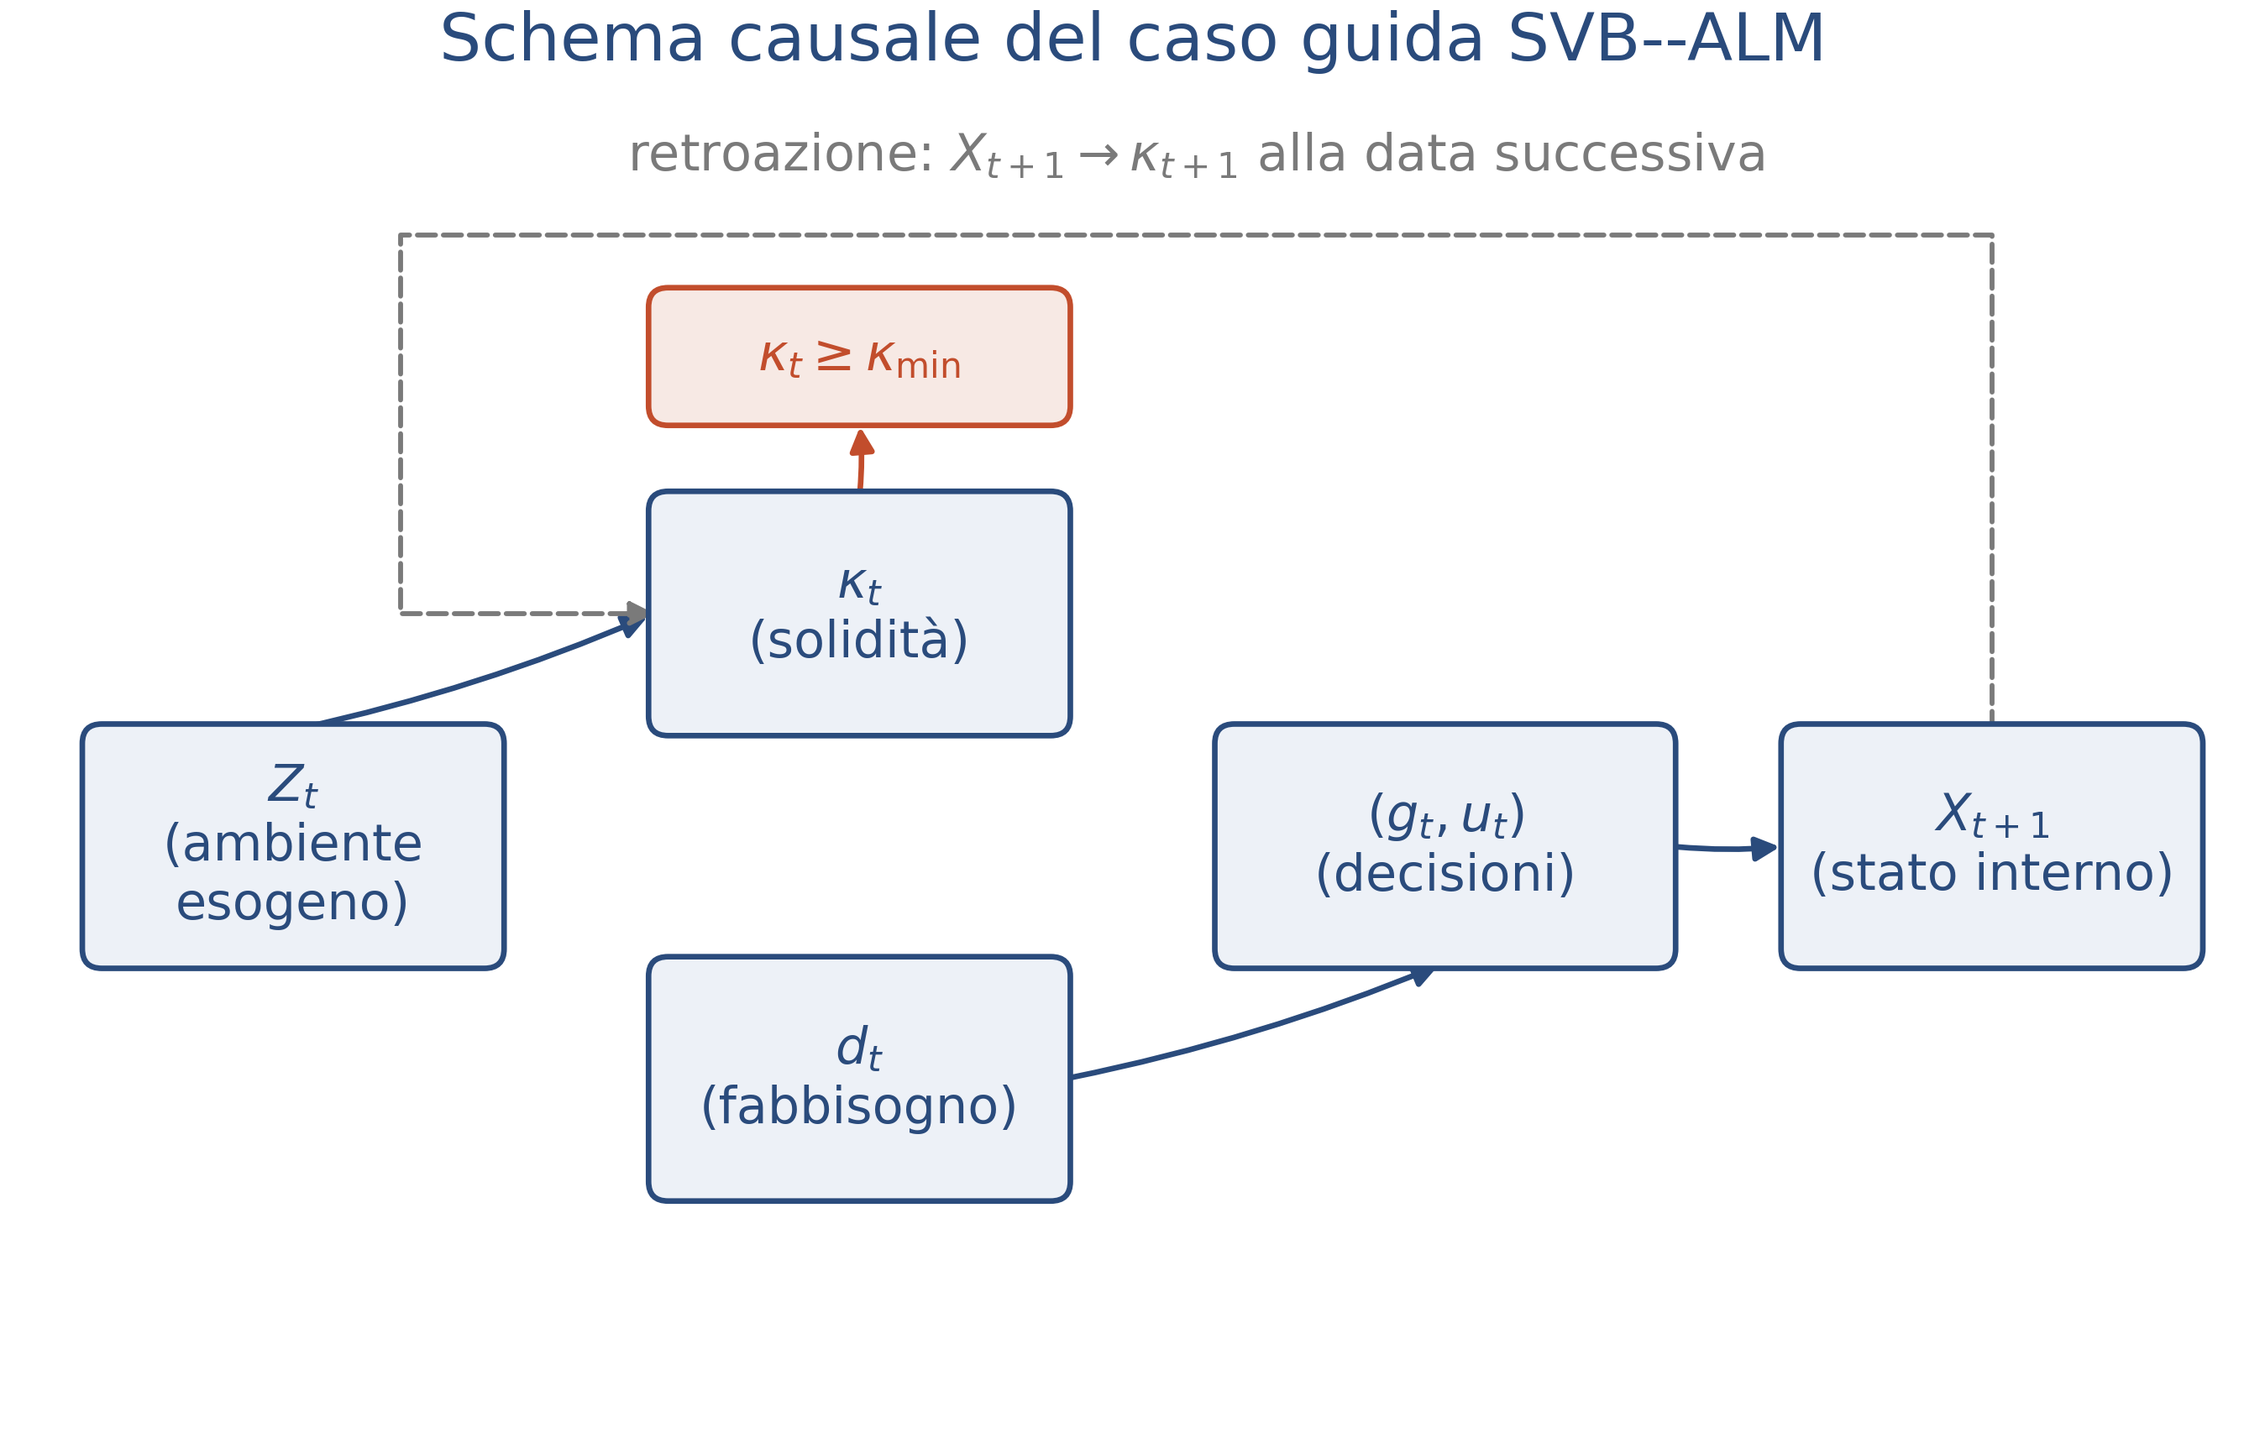
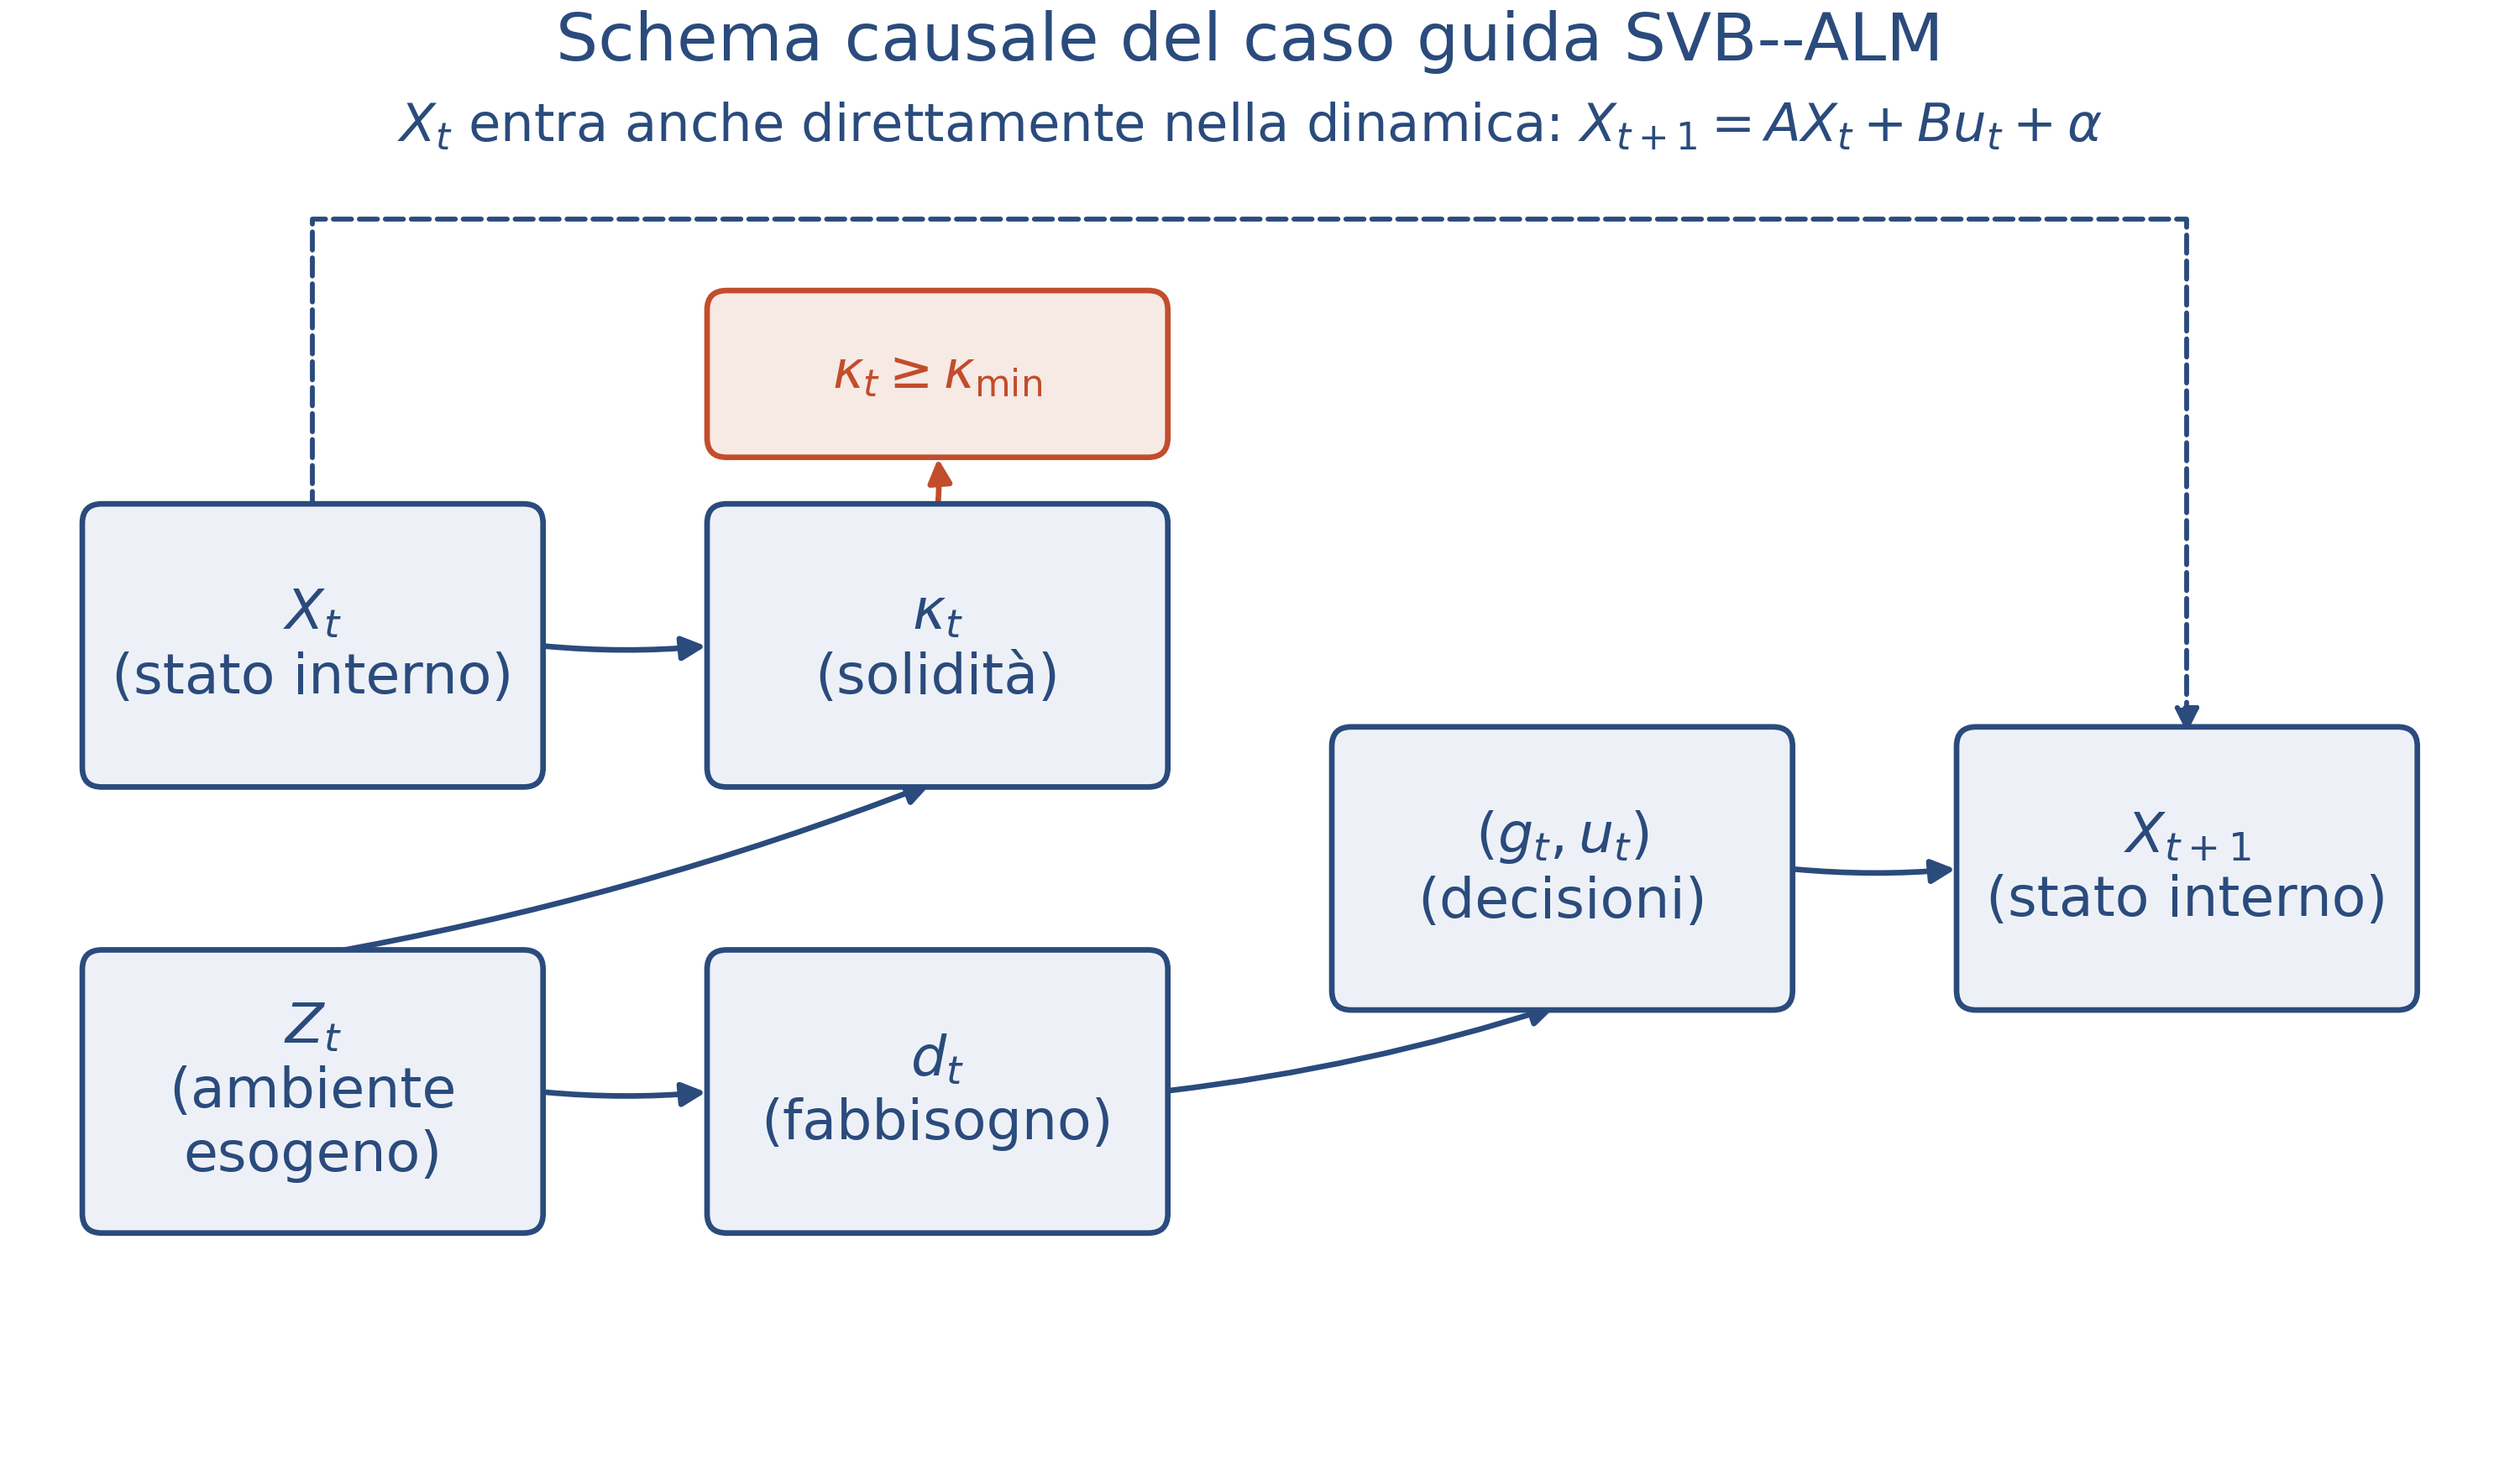
Nuova figura Cap15 Schema causale

diff --git a/04_Codice/Lez15/Cap15_schema_causale_svb_alm.py b/04_Codice/Lez15/Cap15_schema_causale_svb_alm.py
@@ -1,5 +1,4 @@
 from pathlib import Path
-from typing import Literal, TypedDict
 
 import matplotlib.pyplot as plt
 from matplotlib.patches import FancyBboxPatch, FancyArrowPatch
@@ -21,51 +20,32 @@ SAVE_PAD_INCHES = 0.04
 # ============================================================
 
 FONT_FAMILY = "DejaVu Sans"
-FONT_SCALE = 1.00  # Scala globale: 1.10 aumenta tutti i testi del 10%.
-LINE_SPACING_SCALE = 1.00  # Scala globale delle interlinee.
-
 plt.rcParams["font.family"] = FONT_FAMILY
-# Mantiene in SVG lo stesso aspetto tipografico anche su altri computer.
-plt.rcParams["svg.fonttype"] = "path"
 
-TextCategory = Literal["title", "node", "constraint", "annotation"]
-
-
-class TextStyle(TypedDict):
-    """Proprietà tipografiche riconosciute da Matplotlib e Pylance."""
-
-    fontsize: float
-    linespacing: float
-
-
-FONT_SIZES: dict[TextCategory, float] = {
-    "title": 19.0,
-    "node": 14.5,
-    "constraint": 14.5,  # Testo nel riquadro rosso del vincolo.
-    "annotation": 14.5,
+FONT_SIZES = {
+    "title": 19,
+    "node": 16.0,
+    "annotation": 15.0,
 }
-
-LINE_SPACINGS: dict[TextCategory, float] = {
-    "title": 1.15,
-    "node": 1.25,
-    "constraint": 1.20,
-    "annotation": 1.20,
-}
-
-
-def text_style(category: TextCategory) -> TextStyle:
-    """Restituisce dimensione e interlinea della categoria richiesta."""
-    return {
-        "fontsize": FONT_SIZES[category] * FONT_SCALE,
-        "linespacing": LINE_SPACINGS[category] * LINE_SPACING_SCALE,
-    }
-
 
 COL_STRUCT = "#2A4B7C"
 COL_ACCENT = "#C24D2C"
 COL_MUTED = "#7A7A7A"
 COL_BG_BOX = "#EDF1F7"
 COL_BG_ACCENT = "#F7E9E4"
+
+# ============================================================
+# CONTROLLI DI LAYOUT (regolabili a mano, in ordine dal basso verso l'alto)
+# ============================================================
+
+APEX_GAP = 0.40            # spazio fra la cima del box del vincolo e la
+                            # "canalina" tratteggiata orizzontale
+ANNOTATION_GAP = 0.40      # spazio fra la canalina e il sottotitolo
+TITLE_GAP = 0.35           # spazio fra il sottotitolo e il titolo
+TOP_MARGIN = 0.25          # spazio fra il titolo e il bordo superiore del
+                            # canvas
+# tutti e quattro nella stessa unita' (quella del disegno, non punti):
+# si possono confrontare e sommare direttamente fra loro.
 
 
 def save_figure(fig, stem):
@@ -74,23 +54,20 @@ def save_figure(fig, stem):
     png_path = OUTPUT_DIR / f"{stem}.png"
     svg_path = OUTPUT_DIR / f"{stem}.svg"
     fig.savefig(png_path, dpi=PNG_DPI, bbox_inches=SAVE_BBOX, pad_inches=SAVE_PAD_INCHES)
-    fig.savefig(svg_path, format="svg", bbox_inches=SAVE_BBOX, pad_inches=SAVE_PAD_INCHES)
+    fig.savefig(svg_path, bbox_inches=SAVE_BBOX, pad_inches=SAVE_PAD_INCHES)
     plt.close(fig)
     print(f"Figura PNG salvata in: {png_path.resolve()}")
     print(f"Figura SVG salvata in: {svg_path.resolve()}")
-    print(f"Salvataggio completato (PNG + SVG). Destinazione: {OUTPUT_DIR.resolve()}")
     return png_path, svg_path
 
 
-def add_box(ax, x, y, w, h, text, face, edge,
-            text_category: TextCategory = "node"):
-    """Disegna un box usando la categoria tipografica indicata."""
+def add_box(ax, x, y, w, h, text, face, edge, fontsize):
     patch = FancyBboxPatch((x, y), w, h,
                             boxstyle="round,pad=0.03,rounding_size=0.10",
                             linewidth=1.6, edgecolor=edge, facecolor=face, zorder=2)
     ax.add_patch(patch)
     ax.text(x + w / 2, y + h / 2, text, ha="center", va="center",
-            color=edge, zorder=3, **text_style(text_category))
+            fontsize=fontsize, color=edge, zorder=3, linespacing=1.25)
     return (x, y, w, h)
 
 
@@ -108,51 +85,94 @@ def add_arrow(ax, b1, b2, side1="right", side2="left", color=COL_STRUCT, style="
 # FIGURA
 # ============================================================
 
-fig, ax = plt.subplots(figsize=(11.5, 6.8))
-ax.set_xlim(0, 11.5)
-ax.set_ylim(0, 6.8)
+# Griglia dei box: dimensioni uniformi, ricalcolate per il font piu' grande
+# (il testo piu' lungo, "ambiente esogeno", va esplicitamente su due righe
+# cosi' la larghezza del box non dipende dal punto esatto a cui e' tarato
+# il font).
+BOX_W, BOX_H = 2.3, 1.4
+GAP_X, GAP_Y = 0.9, 0.9
+
+col_x0 = 0.4                          # X_t, Z_t
+col_x1 = col_x0 + BOX_W + GAP_X       # kappa_t, d_t
+col_x2 = col_x1 + BOX_W + GAP_X       # (g_t,u_t)
+col_x3 = col_x2 + BOX_W + GAP_X       # X_{t+1}
+
+row_y_bottom = 1.2                    # Z_t, d_t
+row_y_top = row_y_bottom + BOX_H + GAP_Y     # X_t, kappa_t
+row_y_mid = (row_y_bottom + row_y_top) / 2   # (g_t,u_t), X_{t+1}, centrata
+
+# altezza del canvas ricavata dai controlli di layout sopra, cosi' i box
+# restano della stessa dimensione qualunque valore diano a APEX_GAP,
+# ANNOTATION_GAP, TOP_MARGIN: cambia solo lo spazio bianco in alto.
+BOX_C_H = 0.8
+box_c_bottom = row_y_top + BOX_H + 0.3   # gap fra kappa_t e il box del vincolo
+box_c_top = box_c_bottom + BOX_C_H       # cima del box del vincolo
+y_apex = box_c_top + APEX_GAP
+y_annotation = y_apex + ANNOTATION_GAP
+y_title = y_annotation + TITLE_GAP
+ylim_top = y_title + TOP_MARGIN
+
+fig, ax = plt.subplots(figsize=(12.7, ylim_top))
+ax.set_xlim(0, col_x3 + BOX_W + 0.4)
+ax.set_ylim(0, ylim_top)
 ax.axis("off")
 
-b_z = add_box(ax, 0.4, 2.4, 2.1, 1.2, r"$Z_t$" + "\n(ambiente\nesogeno)",
-              COL_BG_BOX, COL_STRUCT)
-b_k = add_box(ax, 3.3, 3.6, 2.1, 1.2, r"$\kappa_t$" + "\n(solidità)",
-              COL_BG_BOX, COL_STRUCT)
-b_d = add_box(ax, 3.3, 1.2, 2.1, 1.2, r"$d_t$" + "\n(fabbisogno)",
-              COL_BG_BOX, COL_STRUCT)
-b_u = add_box(ax, 6.2, 2.4, 2.3, 1.2, r"$(g_t,u_t)$" + "\n(decisioni)",
-              COL_BG_BOX, COL_STRUCT)
-b_x = add_box(ax, 9.1, 2.4, 2.1, 1.2, r"$X_{t+1}$" + "\n(stato interno)",
-              COL_BG_BOX, COL_STRUCT)
-b_c = add_box(ax, 3.3, 5.2, 2.1, 0.65, r"$\kappa_t\geq\kappa_{\min}$",
-              COL_BG_ACCENT, COL_ACCENT, "constraint")
+b_x0 = add_box(ax, col_x0, row_y_top, BOX_W, BOX_H, r"$X_t$" + "\n(stato interno)",
+               COL_BG_BOX, COL_STRUCT, FONT_SIZES["node"])
+b_z = add_box(ax, col_x0, row_y_bottom, BOX_W, BOX_H,
+              r"$Z_t$" + "\n(ambiente\nesogeno)",
+              COL_BG_BOX, COL_STRUCT, FONT_SIZES["node"])
+b_k = add_box(ax, col_x1, row_y_top, BOX_W, BOX_H, r"$\kappa_t$" + "\n(solidità)",
+              COL_BG_BOX, COL_STRUCT, FONT_SIZES["node"])
+b_d = add_box(ax, col_x1, row_y_bottom, BOX_W, BOX_H, r"$d_t$" + "\n(fabbisogno)",
+              COL_BG_BOX, COL_STRUCT, FONT_SIZES["node"])
+b_u = add_box(ax, col_x2, row_y_mid, BOX_W, BOX_H, r"$(g_t,u_t)$" + "\n(decisioni)",
+              COL_BG_BOX, COL_STRUCT, FONT_SIZES["node"])
+b_x = add_box(ax, col_x3, row_y_mid, BOX_W, BOX_H, r"$X_{t+1}$" + "\n(stato interno)",
+              COL_BG_BOX, COL_STRUCT, FONT_SIZES["node"])
+b_c = add_box(ax, col_x1, box_c_bottom, BOX_W, BOX_C_H,
+              r"$\kappa_t\geq\kappa_{\min}$",
+              COL_BG_ACCENT, COL_ACCENT, FONT_SIZES["annotation"])
 
-add_arrow(ax, b_z, b_k, side1="top", side2="left")
-add_arrow(ax, b_z, b_d, side1="bottom", side2="left")
+# X_t (stato ereditato dalla data precedente) e Z_t (nuova osservazione
+# esogena) sono i due ingressi noti a inizio periodo: insieme determinano
+# kappa_t = kappa_0 + beta'X_t - h_Z(Z_t); Z_t da solo determina d_t. Ogni
+# freccia qui corrisponde a un'equazione scritta nel testo. Il passo va da
+# X_t a X_{t+1}: e' una catena lineare (X_0->X_1->X_2->...), non un ciclo,
+# quindi non c'e' alcuna freccia di ritorno da disegnare.
+add_arrow(ax, b_x0, b_k, side1="right", side2="left")
+add_arrow(ax, b_z, b_k, side1="top", side2="bottom")
+add_arrow(ax, b_z, b_d, side1="right", side2="left")
 add_arrow(ax, b_d, b_u, side1="right", side2="bottom")
 add_arrow(ax, b_k, b_c, side1="top", side2="bottom", color=COL_ACCENT)
 add_arrow(ax, b_u, b_x, side1="right", side2="left")
 
-# retroazione X_t -> kappa_{t+1}: percorso "a canalina" sopra tutte le caselle,
-# cosi' da non tagliare mai attraverso (g_t,u_t), d_t o il vincolo di solidita'.
-x_top_box, y_top_box = 10.15, 3.6      # sommita' di X_{t+1}
-x_left_box, y_left_box = 3.3, 4.2      # lato sinistro di kappa_t
-y_apex = 6.15                          # quota del tratto orizzontale, sopra b_c (top 5.85)
-x_left_turn = 2.0                      # ascissa del tratto verticale di rientro
+# X_t entra anche direttamente nella dinamica dello stato,
+# X_{t+1}=A X_t+B u_t+alpha (non solo attraverso kappa_t): la tracciamo
+# come collegamento tratteggiato, passando sopra tutte le caselle per non
+# tagliare (g_t,u_t), d_t o il vincolo di solidita'.
+x0_top = (b_x0[0] + b_x0[2] / 2, b_x0[1] + b_x0[3])   # sommita' di X_t
+x1_top = (b_x[0] + b_x[2] / 2, b_x[1] + b_x[3])       # sommita' di X_{t+1}
+# y_apex e' gia' calcolato sopra, insieme agli altri controlli di layout
 
-fb_path = MplPath(
-    [(x_top_box, y_top_box), (x_top_box, y_apex),
-     (x_left_turn, y_apex), (x_left_turn, y_left_box),
-     (x_left_box, y_left_box)],
-    [MplPath.MOVETO, MplPath.LINETO, MplPath.LINETO, MplPath.LINETO, MplPath.LINETO],
+dyn_path = MplPath(
+    [(x0_top[0], x0_top[1]), (x0_top[0], y_apex),
+     (x1_top[0], y_apex), (x1_top[0], x1_top[1])],
+    [MplPath.MOVETO, MplPath.LINETO, MplPath.LINETO, MplPath.LINETO],
 )
-fb = FancyArrowPatch(path=fb_path, arrowstyle="-|>", mutation_scale=14,
-                      color=COL_MUTED, lw=1.4, linestyle="--", zorder=1, joinstyle="round")
-ax.add_patch(fb)
-ax.text((x_top_box + x_left_turn) / 2, y_apex + 0.28,
-        r"retroazione: $X_{t+1}$ alimenta $\kappa$",
-        color=COL_MUTED, ha="center", va="bottom", **text_style("annotation"))
+dyn_arrow = FancyArrowPatch(path=dyn_path, arrowstyle="-|>", mutation_scale=14,
+                             color=COL_STRUCT, lw=1.4, linestyle="--", zorder=1,
+                             joinstyle="round")
+ax.add_patch(dyn_arrow)
+ax.text((x0_top[0] + x1_top[0]) / 2, y_annotation,
+        r"$X_t$ entra anche direttamente nella dinamica: $X_{t+1}=AX_t+Bu_t+\alpha$",
+        fontsize=FONT_SIZES["annotation"], color=COL_STRUCT, ha="center")
 
-ax.set_title("Schema causale del caso guida SVB--ALM",
-             color=COL_STRUCT, pad=14, **text_style("title"))
+# Titolo come testo normale (non ax.set_title), nella stessa unita' di
+# misura del sottotitolo, cosi' i due si posizionano con controlli
+# omogenei (TITLE_GAP, ANNOTATION_GAP) invece di unita' diverse.
+ax.text((col_x0 + col_x3 + BOX_W) / 2, y_title,
+        "Schema causale del caso guida SVB--ALM",
+        fontsize=FONT_SIZES["title"], color=COL_STRUCT, ha="center", va="bottom")
 
 save_figure(fig, OUTPUT_STEM)
